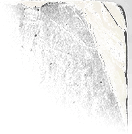
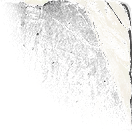
v3.10.2 Worn corners cut the cover, wear fits each cover's shape

diff --git a/src/wear.ts b/src/wear.ts
@@ -22,9 +22,11 @@ export const wearLevel = (w: Wear) => (w === 'off' ? null : LEVEL[w]);
 
 // The parts, each a piece of a 400 x 600 cover: [x, y, width, height].
 // Corners are all drawn as the top-right one; turned upside down they're the
-// bottom-right. The spine side (left) is never turned.
+// bottom-right. The spine side (left) is never turned. Each corner has a
+// matching cut (cut-N): the bit of cover that corner has worn away, which is
+// cut out of the cover itself so no crisp printed corner shows past it.
 const SIZE = { w: 400, h: 600 };
-const BOX: Record<string, [number, number, number, number]> = {"spine-1": [0, 0, 85, 600], "spine-2": [0, 0, 84, 600], "spine-3": [0, 0, 85, 600], "spine-4": [0, 0, 84, 600], "edge-1": [60, 0, 340, 600], "corner-1": [266, 0, 134, 134], "corner-2": [265, 0, 135, 136], "surface-1": [52, 13, 337, 577], "edge-2": [60, 0, 340, 600], "corner-3": [264, 0, 136, 136], "corner-4": [264, 0, 136, 137], "surface-2": [51, 12, 337, 578], "edge-3": [60, 0, 340, 600], "corner-5": [268, 0, 132, 134], "corner-6": [264, 0, 136, 135], "surface-3": [51, 13, 338, 577], "stain-1": [126, 326, 251, 251]};
+const BOX: Record<string, [number, number, number, number]> = {"cut-1": [352, 0, 48, 48], "cut-2": [352, 0, 48, 48], "cut-3": [352, 0, 48, 48], "cut-4": [352, 0, 48, 48], "cut-5": [352, 0, 48, 48], "cut-6": [352, 0, 48, 48], "spine-1": [0, 0, 85, 600], "spine-2": [0, 0, 85, 600], "spine-3": [0, 0, 85, 600], "spine-4": [0, 0, 84, 600], "edge-1": [60, 0, 340, 600], "corner-1": [266, 0, 134, 134], "corner-2": [265, 0, 135, 136], "surface-1": [52, 13, 337, 577], "edge-2": [60, 0, 340, 600], "corner-3": [264, 0, 136, 134], "corner-4": [264, 0, 136, 136], "surface-2": [52, 12, 337, 578], "edge-3": [60, 0, 340, 600], "corner-5": [268, 0, 132, 134], "corner-6": [264, 0, 136, 136], "surface-3": [51, 13, 338, 577], "stain-1": [128, 326, 250, 251]};
 const COUNT = { spine: 4, edge: 3, surface: 3, corner: 6 };
 
 // A small seeded random generator, so a book's wear never changes.
@@ -73,34 +75,75 @@ const loadImg = (src: string) => {
   return p;
 };
 
-// One book's wear, put together as a single transparent image (a blob URL),
-// so the shelf only ever lays one layer over a cover.
-const overlays = new Map<string, Promise<string | null>>();
-export function wearOverlay(title: string, author: string): Promise<string | null> {
-  const key = `${title.toLowerCase()}|${author.toLowerCase()}`;
-  let p = overlays.get(key);
+// One book's wear, put together for its cover's own shape: a transparent
+// overlay (so the shelf only ever lays one layer over a cover) and a mask that
+// cuts away the worn corners. Both are blob URLs.
+//
+// The parts are drawn for a 400 x 600 cover and then fitted, not stretched:
+// corners and the ring stain keep their shape, the spine and edges keep their
+// width, and only the open middle stretches to a taller or squatter cover.
+export type WearArt = { overlay: string; mask: string };
+const arts = new Map<string, Promise<WearArt | null>>();
+const shapeOf = (aspect: number) => {
+  const a = Number.isFinite(aspect) && aspect > 0 ? Math.min(1.25, Math.max(0.4, aspect)) : 2 / 3;
+  return { w: SIZE.w, h: Math.round(SIZE.w / a) };
+};
+const toUrl = (c: HTMLCanvasElement) => new Promise<string | null>(r => c.toBlob(b => r(b ? URL.createObjectURL(b) : null), 'image/png'));
+
+function drawPart(x: CanvasRenderingContext2D, img: HTMLImageElement, name: string, flip: boolean, h: number) {
+  const b = BOX[name];
+  if (!b) return;
+  const [bx, by, bw, bh] = b;
+  const k = h / SIZE.h;
+  x.save();
+  if (flip) { x.translate(0, h); x.scale(1, -1); }
+  const kind = name.split('-')[0];
+  if (kind === 'corner' || kind === 'cut') {
+    x.drawImage(img, bx, by, bw, bh); // pinned to the corner, never resized
+  } else if (kind === 'stain') {
+    const cy = (by + bh / 2) * k;
+    x.drawImage(img, bx, cy - bh / 2, bw, bh);
+  } else if (kind === 'edge' && h >= 120) {
+    // Top and bottom strips as they are; only the middle stretches.
+    const sw = img.naturalWidth, sh = img.naturalHeight, s = sh / bh, e = 48;
+    x.drawImage(img, 0, 0, sw, e * s, bx, by, bw, e);
+    x.drawImage(img, 0, e * s, sw, sh - 2 * e * s, bx, by + e, bw, h - 2 * e);
+    x.drawImage(img, 0, sh - e * s, sw, e * s, bx, h - e, bw, e);
+  } else {
+    x.drawImage(img, bx, by * k, bw, bh * k);
+  }
+  x.restore();
+}
+
+export function wearArt(title: string, author: string, aspect: number): Promise<WearArt | null> {
+  const { w, h } = shapeOf(aspect);
+  const key = `${title.toLowerCase()}|${author.toLowerCase()}|${h}`;
+  let p = arts.get(key);
   if (!p) {
     p = (async () => {
       const parts = wearParts(title, author);
-      const imgs = await Promise.all(parts.map(pt => loadImg(`/wear/${pt.name}.webp`)));
+      const cuts = parts.filter(pt => pt.name.startsWith('corner-')).map(pt => ({ name: pt.name.replace('corner', 'cut'), flip: pt.flip }));
+      const [imgs, cutImgs] = await Promise.all([
+        Promise.all(parts.map(pt => loadImg(`/wear/${pt.name}.webp`))),
+        Promise.all(cuts.map(pt => loadImg(`/wear/${pt.name}.webp`))),
+      ]);
       const c = document.createElement('canvas');
-      c.width = SIZE.w; c.height = SIZE.h;
+      c.width = w; c.height = h;
       const x = c.getContext('2d');
       if (!x) return null;
-      parts.forEach((pt, i) => {
-        const img = imgs[i];
-        const b = BOX[pt.name];
-        if (!img || !b) return;
-        const [bx, by, bw, bh] = b;
-        x.save();
-        if (pt.flip) { x.translate(0, SIZE.h); x.scale(1, -1); }
-        x.drawImage(img, bx, by, bw, bh);
-        x.restore();
-      });
-      const blob = await new Promise<Blob | null>(r => c.toBlob(r, 'image/png'));
-      return blob ? URL.createObjectURL(blob) : null;
+      parts.forEach((pt, i) => { const img = imgs[i]; if (img) drawPart(x, img, pt.name, pt.flip, h); });
+      const m = document.createElement('canvas');
+      m.width = w; m.height = h;
+      const mx = m.getContext('2d');
+      if (!mx) return null;
+      mx.fillStyle = '#fff';
+      mx.fillRect(0, 0, w, h);
+      mx.globalCompositeOperation = 'destination-out';
+      cuts.forEach((pt, i) => { const img = cutImgs[i]; if (img) drawPart(mx, img, pt.name, pt.flip, h); });
+      const [overlay, mask] = await Promise.all([toUrl(c), toUrl(m)]);
+      return overlay && mask ? { overlay, mask } : null;
     })();
-    overlays.set(key, p);
+    arts.set(key, p);
   }
   return p;
 }
@@ -116,8 +159,8 @@ export function wornCover(img: HTMLImageElement, title: string, author: string, 
   let p = baked.get(key);
   if (!p) {
     p = (async () => {
-      const url = await wearOverlay(title, author);
-      const overlay = url ? await loadImg(url) : null;
+      const art = await wearArt(title, author, img.naturalWidth / img.naturalHeight);
+      const [overlay, mask] = art ? await Promise.all([loadImg(art.overlay), loadImg(art.mask)]) : [null, null];
       try {
         const scale = Math.min(1, 1200 / img.naturalHeight);
         const w = Math.round(img.naturalWidth * scale), h = Math.round(img.naturalHeight * scale);
@@ -133,7 +176,13 @@ export function wornCover(img: HTMLImageElement, title: string, author: string, 
         x.globalCompositeOperation = 'source-over';
         x.globalAlpha = lv.strength;
         if (overlay) x.drawImage(overlay, 0, 0, w, h);
-        const blob = await new Promise<Blob | null>(r => c.toBlob(r, 'image/jpeg', 0.92));
+        // Cut the worn corners away (PNG, so they stay see-through).
+        if (mask) {
+          x.globalAlpha = 1;
+          x.globalCompositeOperation = 'destination-in';
+          x.drawImage(mask, 0, 0, w, h);
+        }
+        const blob = await new Promise<Blob | null>(r => c.toBlob(r, 'image/png'));
         if (!blob) return img;
         const out = new Image();
         out.src = URL.createObjectURL(blob);

diff --git a/digital_bookshelf.tsx b/digital_bookshelf.tsx
@@ -1,7 +1,7 @@
 import { useState, useEffect, useLayoutEffect, useRef, useCallback, useSyncExternalStore, lazy, Suspense } from 'react';
 import { X, ChevronLeft, ChevronRight, ExternalLink } from 'lucide-react';
 import { Book, BOOKS, SHELF_ITEMS, USE_VITSOE_SHELF, COLOR_MODE, WEAR, isDecor } from './src/books';
-import { wearOverlay, wearLevel } from './src/wear';
+import { wearArt, wearLevel, type WearArt } from './src/wear';
 import { decorDefOf, BOOK_ASPECT, DecorDef } from './src/decor';
 import { SITE, coverInfo, EDITOR_AVAILABLE } from './src/shelfData';
 
@@ -178,9 +178,12 @@ const useBookAspectRatio = (book: Book) => {
 const DynamicCover = ({ book, eager = false }: { book: Book; eager?: boolean }) => {
   const { url, loaded, failed, onLoad, onError } = useBookCover(book);
   const aspectRatio = useBookAspectRatio(book);
+  const wear = useWearArt(book, aspectRatio, !!url && loaded);
+  // Worn corners are cut out of the cover itself.
+  const cut: React.CSSProperties = wear ? { WebkitMaskImage: `url(${wear.mask})`, maskImage: `url(${wear.mask})`, WebkitMaskSize: '100% 100%', maskSize: '100% 100%' } : {};
 
   return (
-    <div className="relative w-full" style={{ aspectRatio, isolation: 'isolate', backgroundColor: failed ? getColorForString(book.title) : 'transparent' }}>
+    <div className="relative w-full" style={{ aspectRatio, isolation: 'isolate', backgroundColor: failed ? getColorForString(book.title) : 'transparent', ...cut }}>
       {/* Holding shape while the cover loads: a dotted outline of the book */}
       {!loaded && !failed && (
         <div aria-hidden className="absolute inset-0 rounded-xs border-2 border-dotted border-black/30 dark:border-white/30" />
@@ -197,7 +200,7 @@ const DynamicCover = ({ book, eager = false }: { book: Book; eager?: boolean }) 
           className={`absolute inset-0 w-full h-full transition-opacity duration-300 ease-out ${loaded ? 'opacity-100' : 'opacity-0'}`}
         />
       )}
-      {url && loaded && <WearLayers book={book} />}
+      {url && loaded && <WearLayers art={wear} />}
       {failed && (
         <div className="absolute inset-0 flex flex-col justify-between p-5 border border-white/10 shadow-[inset_0_0_40px_rgba(0,0,0,0.5)]">
           <div className="absolute inset-0 bg-gradient-to-br from-white/10 to-transparent pointer-events-none" />
@@ -211,19 +214,23 @@ const DynamicCover = ({ book, eager = false }: { book: Book; eager?: boolean }) 
 // Worn look over a cover (see src/wear.ts): a slight fade, then the book's
 // own wear overlay. The share images draw the same layers the same way.
 const WEAR_LV = wearLevel(WEAR);
-const WearLayers = ({ book }: { book: Book }) => {
-  const [url, setUrl] = useState<string | null>(null);
+const useWearArt = (book: Book, aspect: number, on: boolean) => {
+  const [art, setArt] = useState<WearArt | null>(null);
   useEffect(() => {
-    if (!WEAR_LV) return;
+    if (!WEAR_LV || !on) return;
     let live = true;
-    wearOverlay(book.title, book.author).then(u => { if (live) setUrl(u); });
+    wearArt(book.title, book.author, aspect).then(a => { if (live) setArt(a); });
     return () => { live = false; };
-  }, [book.title, book.author]);
+  }, [book.title, book.author, aspect, on]);
+  return WEAR_LV && on ? art : null;
+};
+
+const WearLayers = ({ art }: { art: WearArt | null }) => {
   if (!WEAR_LV) return null;
   return (
     <div aria-hidden className="absolute inset-0" style={{ pointerEvents: 'none' }}>
       <div style={{ position: 'absolute', inset: 0, background: '#808080', mixBlendMode: 'saturation', opacity: WEAR_LV.fade }} />
-      {url && <img src={url} alt="" draggable={false} style={{ position: 'absolute', inset: 0, width: '100%', height: '100%', opacity: WEAR_LV.strength }} />}
+      {art && <img src={art.overlay} alt="" draggable={false} style={{ position: 'absolute', inset: 0, width: '100%', height: '100%', opacity: WEAR_LV.strength }} />}
     </div>
   );
 };
